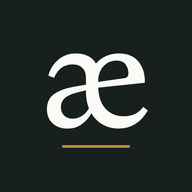
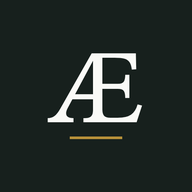
Neues Symbol (Æ in der Hausschrift, füllt den Kreis), sofortige Weiterleitung, Haushalt-Start mit eigenem Symbol
Claude-Session: https://claude.ai/code/session_01SiR2VTdfaj6LNK7svSjAQF

Changed region(s): [[0.2188, 0.25, 0.7812, 0.7812]]

diff --git a/index.html b/index.html
@@ -4,35 +4,36 @@
 <meta charset="utf-8">
 <meta name="viewport" content="width=device-width, initial-scale=1">
 <title>Monetær</title>
-<meta name="theme-color" content="#FAFAF7">
+<meta name="theme-color" content="#17201D">
 <link rel="manifest" href="manifest.webmanifest">
 <link rel="icon" type="image/png" sizes="32x32" href="favicon-32.png">
 <link rel="apple-touch-icon" href="apple-touch-icon.png">
 <meta name="apple-mobile-web-app-title" content="Monetær">
 <style>
   html, body { margin: 0; height: 100%; background: #E9EBE7; color: #17201D; font: 15px/1.5 system-ui, -apple-system, 'Segoe UI', sans-serif; }
-  main { height: 100%; display: flex; flex-direction: column; align-items: center; justify-content: center; gap: 14px; }
-  img { width: 72px; height: 72px; border-radius: 16px; }
-  a { color: #17201D; }
+  main { height: 100%; display: flex; flex-direction: column; align-items: center; justify-content: center; gap: 14px; padding: 0 24px; box-sizing: border-box; text-align: center; }
+  img { width: 72px; height: 72px; border-radius: 50%; }
+  a { color: inherit; }
+  p { margin: 0; max-width: 320px; }
 </style>
 </head>
 <body>
 <main>
   <img src="icon-192.png" alt="">
-  <p id="hint" hidden style="max-width:300px;text-align:center;margin:0">Jetzt im Browsermenü <b>Zum Startbildschirm hinzufügen</b> wählen.<br><span id="sec">30</span> Sekunden bis zur App.</p>
+  <p id="hint" hidden></p>
   <a id="go" href="#">Monetær öffnen</a>
 </main>
 <script>
-  // Startseite fürs Handy: trägt das Symbol und leitet zur App weiter (ohne Eintrag im Verlauf).
-  // Vom Startbildschirm (Adresse mit «?start») sofort; direkt aufgerufen 30 Sekunden Zeit zum Hinzufügen.
+  // Startseite fürs Handy: trägt das Symbol und leitet sofort zur App weiter (ohne Eintrag im Verlauf).
+  // Mit «?einrichten» bleibt sie stehen, damit man sie in Ruhe zum Startbildschirm hinzufügen kann.
   var APP = 'https://script.google.com/macros/s/AKfycbyrbUNAWYWWmsP0nRk9UFYftKVLdGdgOhGYTk6aMK6N1VQKI6lQr5PanXVcK7kErjkf/exec';
   document.getElementById('go').href = APP;
-  if (/[?&]start\b/.test(location.search)) location.replace(APP);
-  else {
-    try { history.replaceState(null, '', '?start'); } catch (e) { /* dann eben ohne */ }   // die Verknüpfung merkt sich «?start»
-    document.getElementById('hint').hidden = false;
-    var n = 30, t = setInterval(function () { n--; document.getElementById('sec').textContent = n; if (n <= 0) { clearInterval(t); location.replace(APP); } }, 1000);
-  }
+  if (/[?&]einrichten\b/.test(location.search)) {
+    try { history.replaceState(null, '', location.pathname); } catch (e) { /* egal */ }   // die Verknüpfung merkt sich die Adresse ohne «einrichten»
+    var h = document.getElementById('hint'); h.hidden = false;
+    h.innerHTML = 'Im Browsermenü <b>App installieren</b> oder <b>Zum Startbildschirm hinzufügen</b> wählen.';
+  } else location.replace(APP);
+  if ('serviceWorker' in navigator) navigator.serviceWorker.register('sw.js').catch(function () { /* nur für «Installieren» */ });
 </script>
 </body>
 </html>

diff --git a/haushalt/index.html b/haushalt/index.html
@@ -1,0 +1,41 @@
+<!doctype html>
+<html lang="de">
+<head>
+<meta charset="utf-8">
+<meta name="viewport" content="width=device-width, initial-scale=1">
+<title>Haushalt</title>
+<meta name="theme-color" content="#FAFAF7">
+<link rel="manifest" href="manifest.webmanifest">
+<link rel="icon" type="image/png" sizes="32x32" href="favicon-32.png">
+<link rel="apple-touch-icon" href="apple-touch-icon.png">
+<meta name="apple-mobile-web-app-title" content="Haushalt">
+<style>
+  html, body { margin: 0; height: 100%; background: #FAFAF7; color: #17201D; font: 15px/1.5 system-ui, -apple-system, 'Segoe UI', sans-serif; }
+  main { height: 100%; display: flex; flex-direction: column; align-items: center; justify-content: center; gap: 14px; padding: 0 24px; box-sizing: border-box; text-align: center; }
+  img { width: 72px; height: 72px; border-radius: 50%; }
+  a { color: inherit; }
+  p { margin: 0; max-width: 320px; }
+</style>
+</head>
+<body>
+<main>
+  <img src="icon-192.png" alt="">
+  <p id="hint" hidden></p>
+  <a id="go" href="#">Haushalt öffnen</a>
+</main>
+<script>
+  // Haushalt: der Zugangscode kommt nur über den geteilten Link (#k=…) und bleibt auf diesem Gerät – nie auf GitHub.
+  var APP = 'https://script.google.com/macros/s/AKfycbx1-QG3ETpLjMLXFR-X9li7h1kbaZYl-iW0Rmzpjp7JulprTHRKEqoWdngHvm2pbgTNAA/exec', k = '';
+  var m = location.hash.match(/k=([^&]+)/);
+  try { if (m) localStorage.setItem('hhk', decodeURIComponent(m[1])); k = localStorage.getItem('hhk') || ''; } catch (e) { k = m ? decodeURIComponent(m[1]) : ''; }
+  var url = APP + '?k=' + encodeURIComponent(k), h = document.getElementById('hint');
+  document.getElementById('go').href = url;
+  if (!k) { h.hidden = false; h.textContent = 'Bitte einmal den vollständigen Link öffnen, den du bekommen hast.'; document.getElementById('go').hidden = true; }
+  else if (/[?&]einrichten\b/.test(location.search) || m) {
+    try { history.replaceState(null, '', location.pathname); } catch (e) { /* egal */ }   // Code nicht in der Adresse stehen lassen
+    h.hidden = false; h.innerHTML = 'Im Browsermenü <b>App installieren</b> oder <b>Zum Startbildschirm hinzufügen</b> wählen. Danach öffnet das Symbol direkt den Haushalt.';
+  } else location.replace(url);
+  if ('serviceWorker' in navigator) navigator.serviceWorker.register('sw.js').catch(function () { /* nur für «Installieren» */ });
+</script>
+</body>
+</html>

diff --git a/haushalt/sw.js b/haushalt/sw.js
@@ -1,0 +1,2 @@
+// Nur damit Chrome «App installieren» anbietet (dann füllt das Symbol den ganzen Kreis). Nichts wird zwischengespeichert.
+self.addEventListener('fetch', function () {});

diff --git a/sw.js b/sw.js
@@ -1,0 +1,2 @@
+// Nur damit Chrome «App installieren» anbietet (dann füllt das Symbol den ganzen Kreis). Nichts wird zwischengespeichert.
+self.addEventListener('fetch', function () {});
